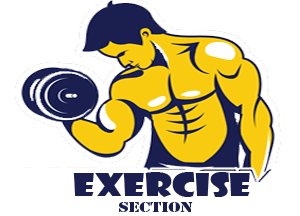
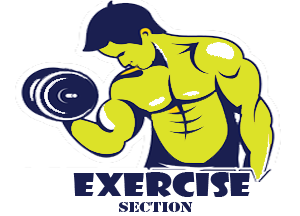
color exercise upper

Changed region(s): [[0.24, 0.1389, 0.93, 0.8333], [0.15, 0.3611, 0.21, 0.5278]]

diff --git a/python-gui-login.py b/python-gui-login.py
@@ -497,8 +497,8 @@ def draw_sleep_section_frame():
 
 def draw_exercise_section_frame():
     global Exercise_Section_Container_Frame
-    Exercise_Section_Container_Frame = Frame(application_screen, bg = '#accde0', relief=RAISED, borderwidth=1, width=Section_Width, height=Section_Height)
-    Exercise_Section_Container_Frame.grid(sticky="nesw", row = 1, column = 0)
+    Exercise_Section_Container_Frame = Frame(application_screen, bg = '#a4d343', relief=RAISED, borderwidth=1, width=Section_Width, height=Section_Height)
+    Exercise_Section_Container_Frame.grid(sticky="nesw", row = 0, column = 2)
 
     @static_var("status", 'active')
     def toggle_sleep_section():
@@ -533,7 +533,7 @@ def draw_exercise_section_frame():
     Label(Exercise_Section_Active_Container_Frame, text="Sleep Section", bg="LightSkyBlue3", height="2", font=("Calibri", 13)).grid(row=0,sticky="nesw")
     Button(Exercise_Section_Active_Container_Frame, text="Sleep Section \u25E4 Hide", command=toggle_sleep_section, height=2,bg="LightSkyBlue3",font=("Calibri", 13)).grid(row=0,sticky="nesw")
     #image_panel = Label(profile_information_holder, textvariable=fullname, compound = 'top',font=("Helvetica", 8), bg='#7e9189', anchor="nw", height = 100, image = img)
-    Inactive_Button = Button(Exercise_Section_Inactive_Container_Frame, text="Click to Expand\u25E2", command=toggle_sleep_section, height=Section_Height, anchor="center", bg="#b1d2e0", image=img,compound="top", fg="#23617b", font=("Rockwell Extra Bold", 13))
+    Inactive_Button = Button(Exercise_Section_Inactive_Container_Frame, text="Click to Expand\u25E2", command=toggle_sleep_section, height=Section_Height, anchor="center", bg="#a4d343", image=img,compound="top", fg="#23617b", font=("Rockwell Extra Bold", 13))
     Inactive_Button.grid(row=0,sticky="nesw")
     Inactive_Button.image = img
 
@@ -546,7 +546,7 @@ def exercise_module_frame():
 def draw_nutrition_section_frame():
     global Nutrition_Section_Container_Frame
     Nutrition_Section_Container_Frame = Frame(application_screen, bg = '#accde0', relief=RAISED, borderwidth=1, width=Section_Width, height=Section_Height)
-    Nutrition_Section_Container_Frame.grid(sticky="nesw", row = 1, column = 1)
+    Nutrition_Section_Container_Frame.grid(sticky="nesw", row = 1, column = 2)
 
     @static_var("status", 'active')
     def toggle_sleep_section():
@@ -591,7 +591,7 @@ def draw_nutrition_section_frame():
 def draw_grooming_section_frame():
     global Grooming_Section_Container_Frame
     Grooming_Section_Container_Frame = Frame(application_screen, bg = '#accde0', relief=RAISED, borderwidth=1, width=Section_Width, height=Section_Height)
-    Grooming_Section_Container_Frame.grid(sticky="nesw", row = 1, column = 2)
+    Grooming_Section_Container_Frame.grid(sticky="nesw", row = 1, column = 1)
 
     @static_var("status", 'active')
     def toggle_sleep_section():
@@ -636,7 +636,7 @@ def draw_grooming_section_frame():
 def draw_hygene_section_frame():
     global Hygene_Section_Container_Frame
     Hygene_Section_Container_Frame = Frame(application_screen, bg = '#accde0', relief=RAISED, borderwidth=1, width=Section_Width, height=Section_Height)
-    Hygene_Section_Container_Frame.grid(sticky="nesw", row = 0, column = 2)
+    Hygene_Section_Container_Frame.grid(sticky="nesw", row = 1, column = 0)
 
     @static_var("status", 'active')
     def toggle_sleep_section():
@@ -782,7 +782,7 @@ def application_form(*args, **kwargs):
 
     application_screen.title("Project - Super-Human")
     application_screen.geometry("1050x500")
-    
+
     #application_screen.columnconfigure(0, weight=Section_Width)
     #application_screen.columnconfigure(1, weight=Section_Width)
 
